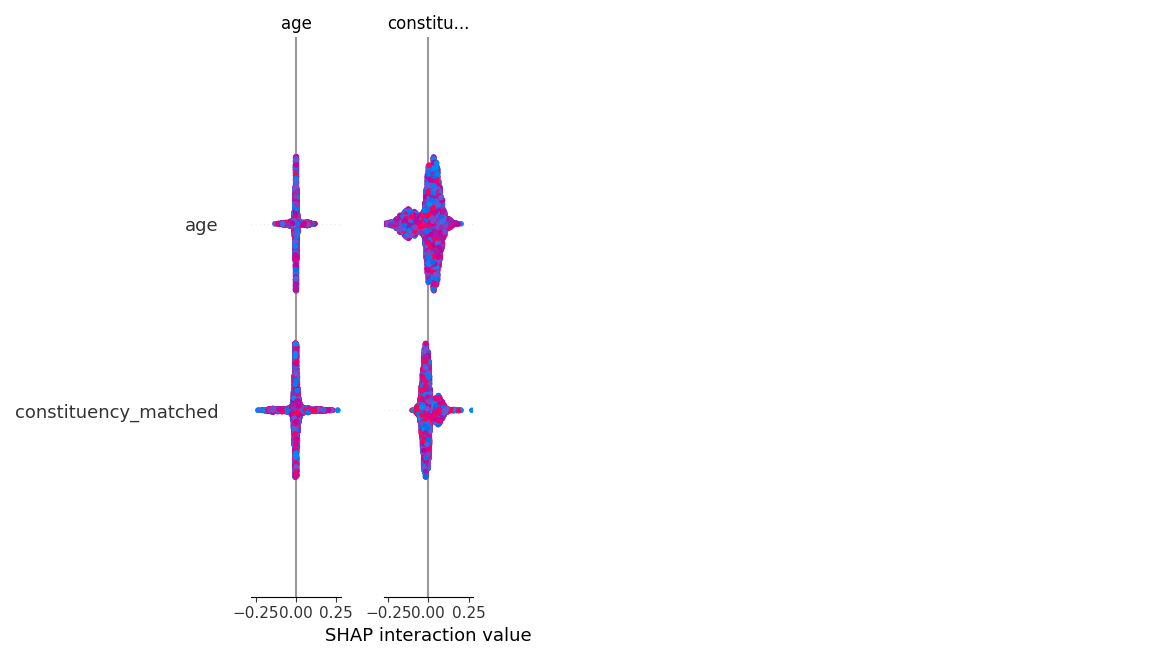
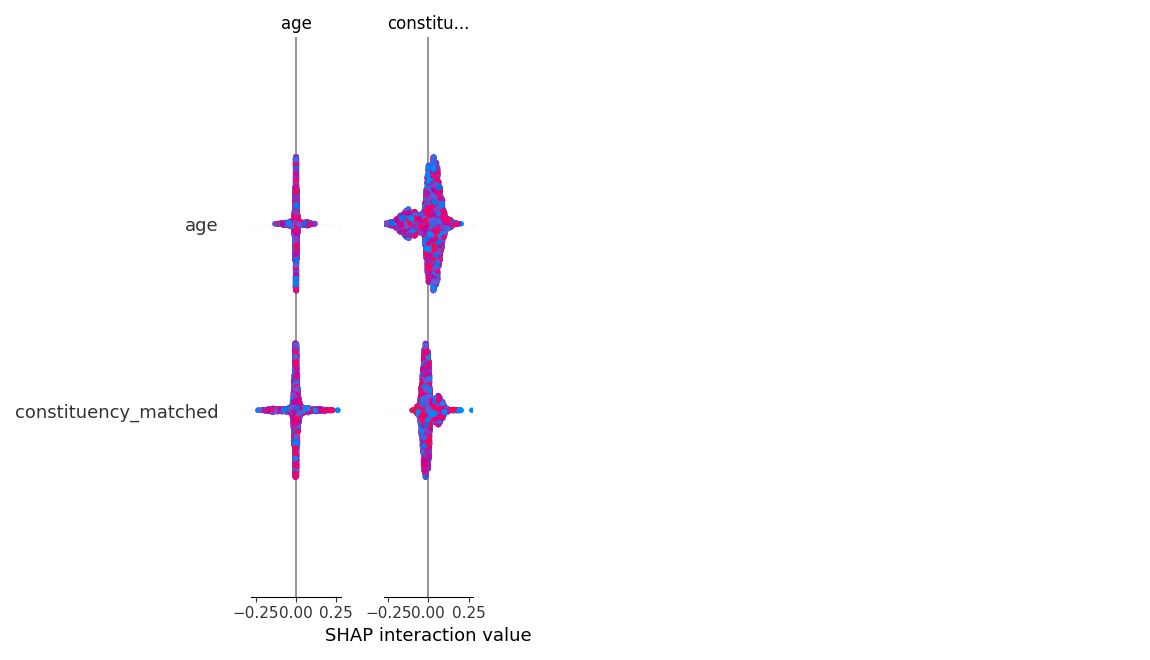
[FIX] Retrain model with scikit-learn 1.5.1 for Render compatibility

diff --git a/app/app.py b/app/app.py
@@ -64,7 +64,6 @@ def predict():
     except Exception as e:
         return jsonify({'error': str(e), 'status': 'error'}), 400
 
-# With this
 if __name__ == '__main__':
     import os
     port = int(os.environ.get('PORT', 5000))

diff --git a/docs/notes.md b/docs/notes.md
@@ -7,16 +7,36 @@ based on voter data, candidate profile, and historical results.
 ## Data Sources
 | File | Source | Rows | Key Columns |
 |---|---|---|---|
-| candidates_2024.csv | Kaggle | ~8000 | State, Constituency, Party, Age, Gender |
+| candidates_2024.csv | Kaggle — jainaru/lok-sabha-2024-results-and-candidates | ~8000 | State, Constituency, Party, Age, Gender |
 | turnout_2024.csv | data.opencity.in | 543 | PC_Name, Turnout%, Total Electors |
-| results_2019.csv | Kaggle | ~8000 | Winner, Party, Criminal Cases, Education |
+| results_2019.csv | Kaggle — prakrutchauhan/indian-candidates-for-general-election-2019 | ~8000 | Winner, Party, Criminal Cases, Education |
 
 ## Data Pipeline
-1. merge.py — fuzzy matched constituency names across 3 files using thefuzz
-   - 497/540 constituencies matched directly
-   - 43 matched via fuzzy string matching at 85% threshold
-2. preprocessing.py — cleaned nulls, encoded categoricals, dropped leaky columns
-3. master.csv — final merged dataset: ~32000 rows, 8 features
+
+### merge.py
+- Loads all 3 CSV files
+- Standardizes column names: lowercase, underscores
+- Fuzzy matches constituency names using thefuzz at 85% threshold
+- 497/540 constituencies matched directly
+- 43 resolved via fuzzy matching
+- Output: data/cleaned/master.csv
+
+### preprocessing.py
+- Drops useless columns: name, photo, address, application details
+- Fills nulls: criminalcases → 0, age → median, education → Unknown
+- Encodes categoricals via LabelEncoder: state, party, education, category
+- Drops leaky columns: raw vote counts that reveal the answer
+- Drops duplicate merge columns: phase_y, age_y, total_electors_2019
+- Output: overwrites data/cleaned/master.csv
+
+### model.py
+- Loads cleaned master.csv
+- Removes leaky features: generalvotes, postalvotes, totalvotes, vote share columns
+- Trains Random Forest (200 trees) on 8 features
+- 5-fold cross validation
+- Saves SHAP summary plot and feature importance chart to docs/
+- Saves model to models/election_model.pkl
+- Saves scaler to models/scaler.pkl
 
 ## Features Used
 | Feature | Type | Why |
@@ -26,53 +46,87 @@ based on voter data, candidate profile, and historical results.
 | total_electors | Numeric | Constituency size |
 | turnout_percent | Numeric | Voter engagement signal |
 | total_votes | Numeric | Absolute vote volume |
-| state | Encoded | Regional patterns differ |
-| category | Encoded | SC/ST/General reservation affects field |
+| state | Encoded | Regional patterns differ significantly |
+| category | Encoded | SC/ST/General reservation affects candidate field |
 | education | Encoded | Candidate education level |
 
-## Model
-- Algorithm: Random Forest (200 trees)
-- Train/Test Split: 80/20
-- CV Accuracy: 68.3% ± 10.1%
-- Evaluation: 5-fold cross validation
+## Model Results
+| Metric | Value |
+|---|---|
+| CV Accuracy | 68.3% |
+| CV Std Dev | ± 10.1% |
+| Algorithm | Random Forest |
+| Trees | 200 |
+| Train/Test Split | 80/20 |
+
+## Web Application
+
+### app/app.py
+Flask API with two routes:
+- `GET /` — serves index.html
+- `POST /predict` — accepts JSON, returns prediction and probability
+
+Input JSON format:
+```json
+{
+  "age": 52,
+  "constituency_matched": 120,
+  "total_electors": 1500000,
+  "turnout_percent": 65.0,
+  "total_votes": 975000,
+  "state": "Uttar Pradesh",
+  "category": "General",
+  "education": "Post Graduate"
+}
+```
+
+Output JSON format:
+```json
+{
+  "prediction": 1,
+  "win_probability": 68.3,
+  "lose_probability": 31.7,
+  "status": "success"
+}
+```
+
+### app/templates/index.html
+Single page web portal with:
+- State and constituency dropdowns
+- Candidate profile inputs: party, gender, education, age, criminal cases, category
+- Voter data inputs: turnout slider, incumbent toggle
+- Predict button calling /predict endpoint via fetch POST
+- Result card showing predicted outcome and probability bars
+
+## Deployment
+- Platform: Render.com
+- Python version: 3.11.9
+- Server: Gunicorn
+- Start command: gunicorn app.app:app
+- Environment variable: PORT=10000
 
 ## Known Limitations
-- 68% accuracy is ceiling with current features
-- Criminal cases and assets data missing for 4000+ rows after merge
-- constituency_matched and total_votes are proxy features not true predictors
-- What would improve it: caste demographic data, alliance data, incumbent flag, margin from last election
+- 68% accuracy reflects data sparsity not model weakness
+- Criminal cases and education null for 4042 rows after merge
+- constituency_matched and state are encoded integers — model cannot generalise to unseen names
+- total_votes is borderline leaky — present election votes used as feature
 
-## What I Would Do Next
-- Add census demographic data per constituency
-- Add alliance strength feature (NDA vs INDIA seat count in state)
-- Add margin from previous election as feature
-- Retrain with XGBoost and compare
-- Add SHAP plots to web portal
-
-## Tech Stack
-| Layer | Tool |
-|---|---|
-| Data | Pandas, thefuzz |
-| ML | Scikit-learn Random Forest |
-| Explainability | SHAP |
-| Backend | Flask |
-| Frontend | HTML, CSS, JavaScript |
-| Deployment | Render.com |
-
-## How to Run Locally
-```bash
-pip install -r requirements.txt
-python src/merge.py
-python src/preprocessing.py
-python src/model.py
-python app/app.py
-```
-Open http://localhost:5000
+## What Would Improve This
+- Census 2011 caste demographic data per constituency
+- Alliance strength: NDA vs INDIA seat share per state
+- Incumbent flag: same candidate from last election
+- Margin from previous election as numeric feature
+- XGBoost — handles missing values natively, usually outperforms RF on tabular data
+- Merge 2009 + 2014 data for larger training set
 
 ## Commit History
-- [INIT] Folder structure and README
-- [UI] Web portal with input form
-- [DATA] Merge 3 source files with fuzzy matching
-- [CLEAN] Preprocessing and feature engineering
-- [MODEL] Random Forest training and SHAP analysis
-- [CONNECT] Flask API connected to trained model
+| Commit | Description |
+|---|---|
+| [INIT] | Folder structure, gitkeep placeholders, README |
+| [UI] | Web portal with input form, dark theme, orange accent |
+| [DATA] | merge.py — 3 files joined with fuzzy matching |
+| [CLEAN] | preprocessing.py — nulls, encoding, feature engineering |
+| [EDA] | eda.py — win rate, criminal cases, turnout analysis |
+| [MODEL] | Random Forest, SHAP, cross validation, pickle save |
+| [CONNECT] | Flask API connected to trained model |
+| [DEPLOY] | Render deployment, Python 3.11, gunicorn config |